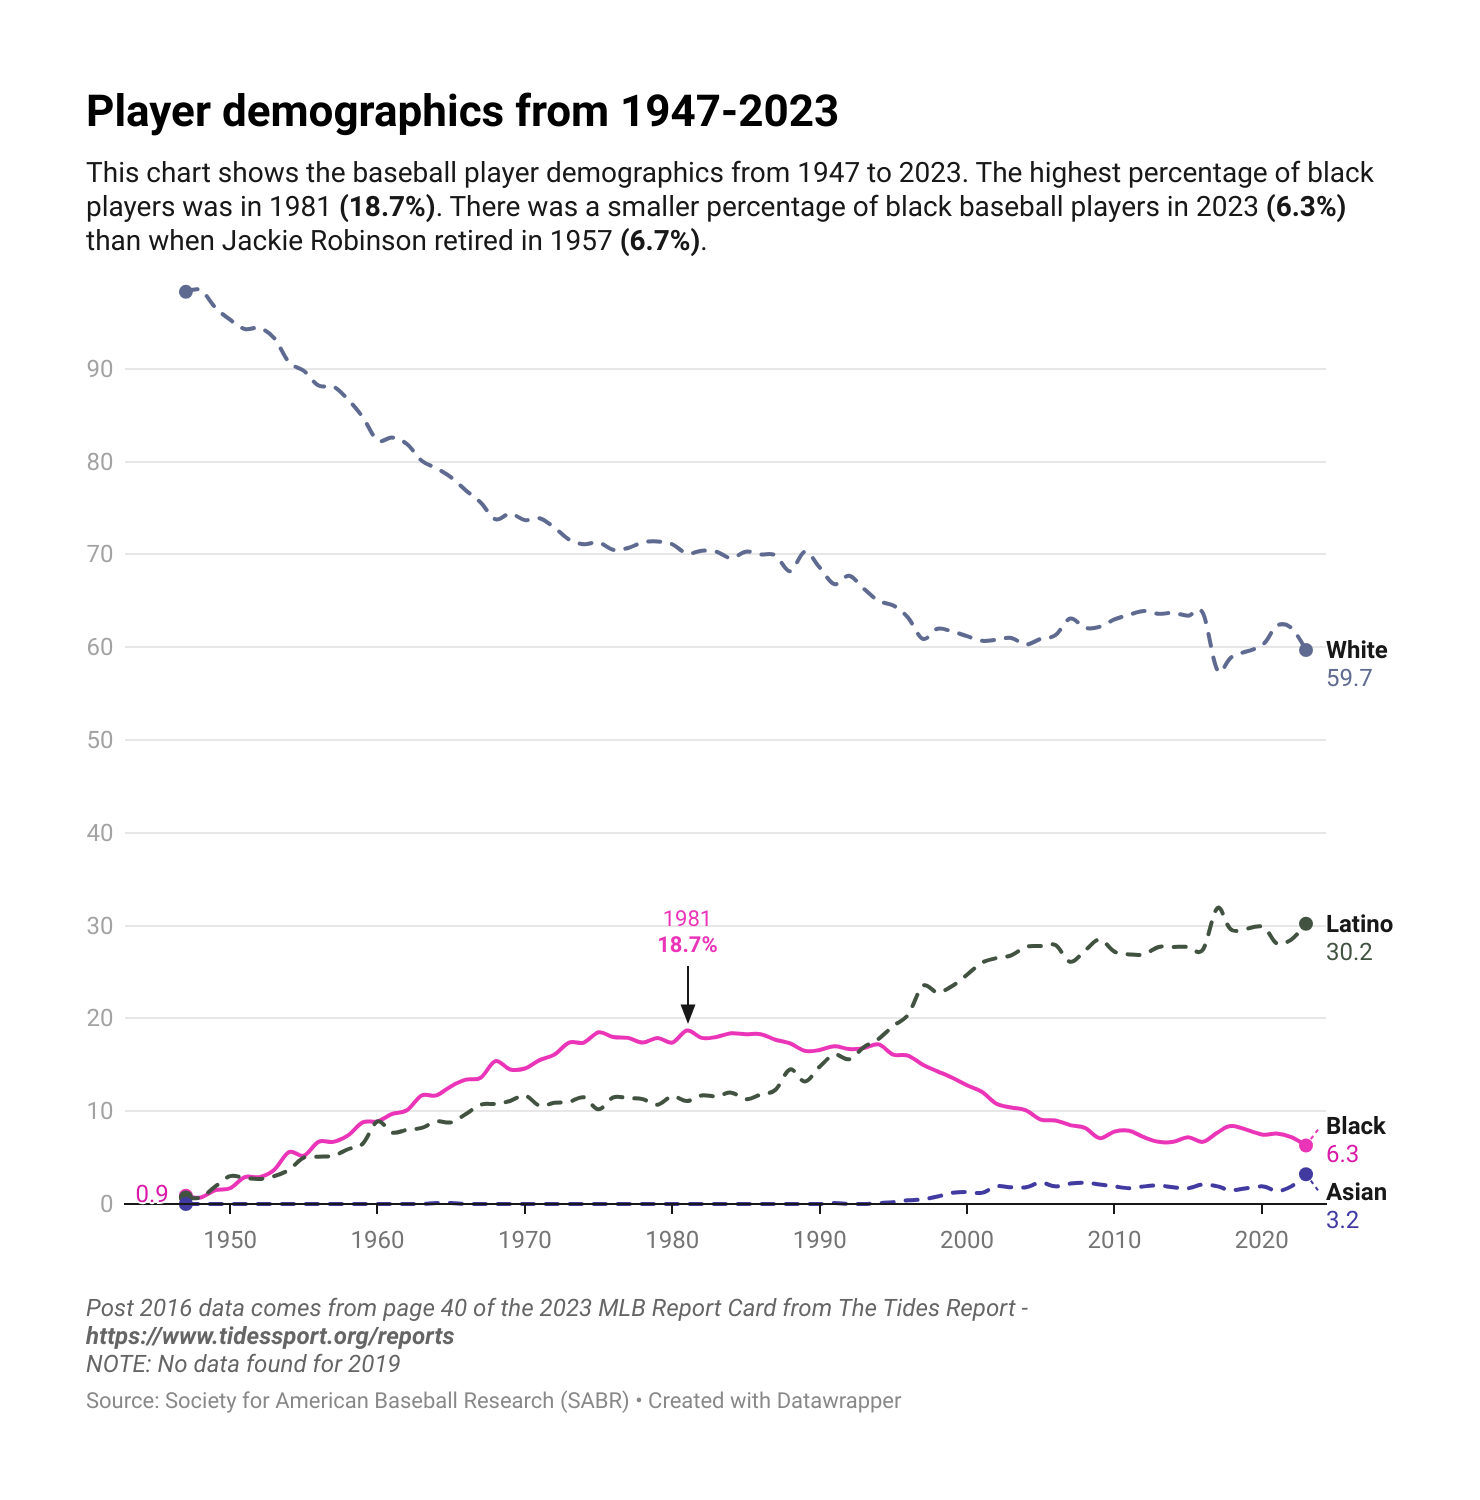
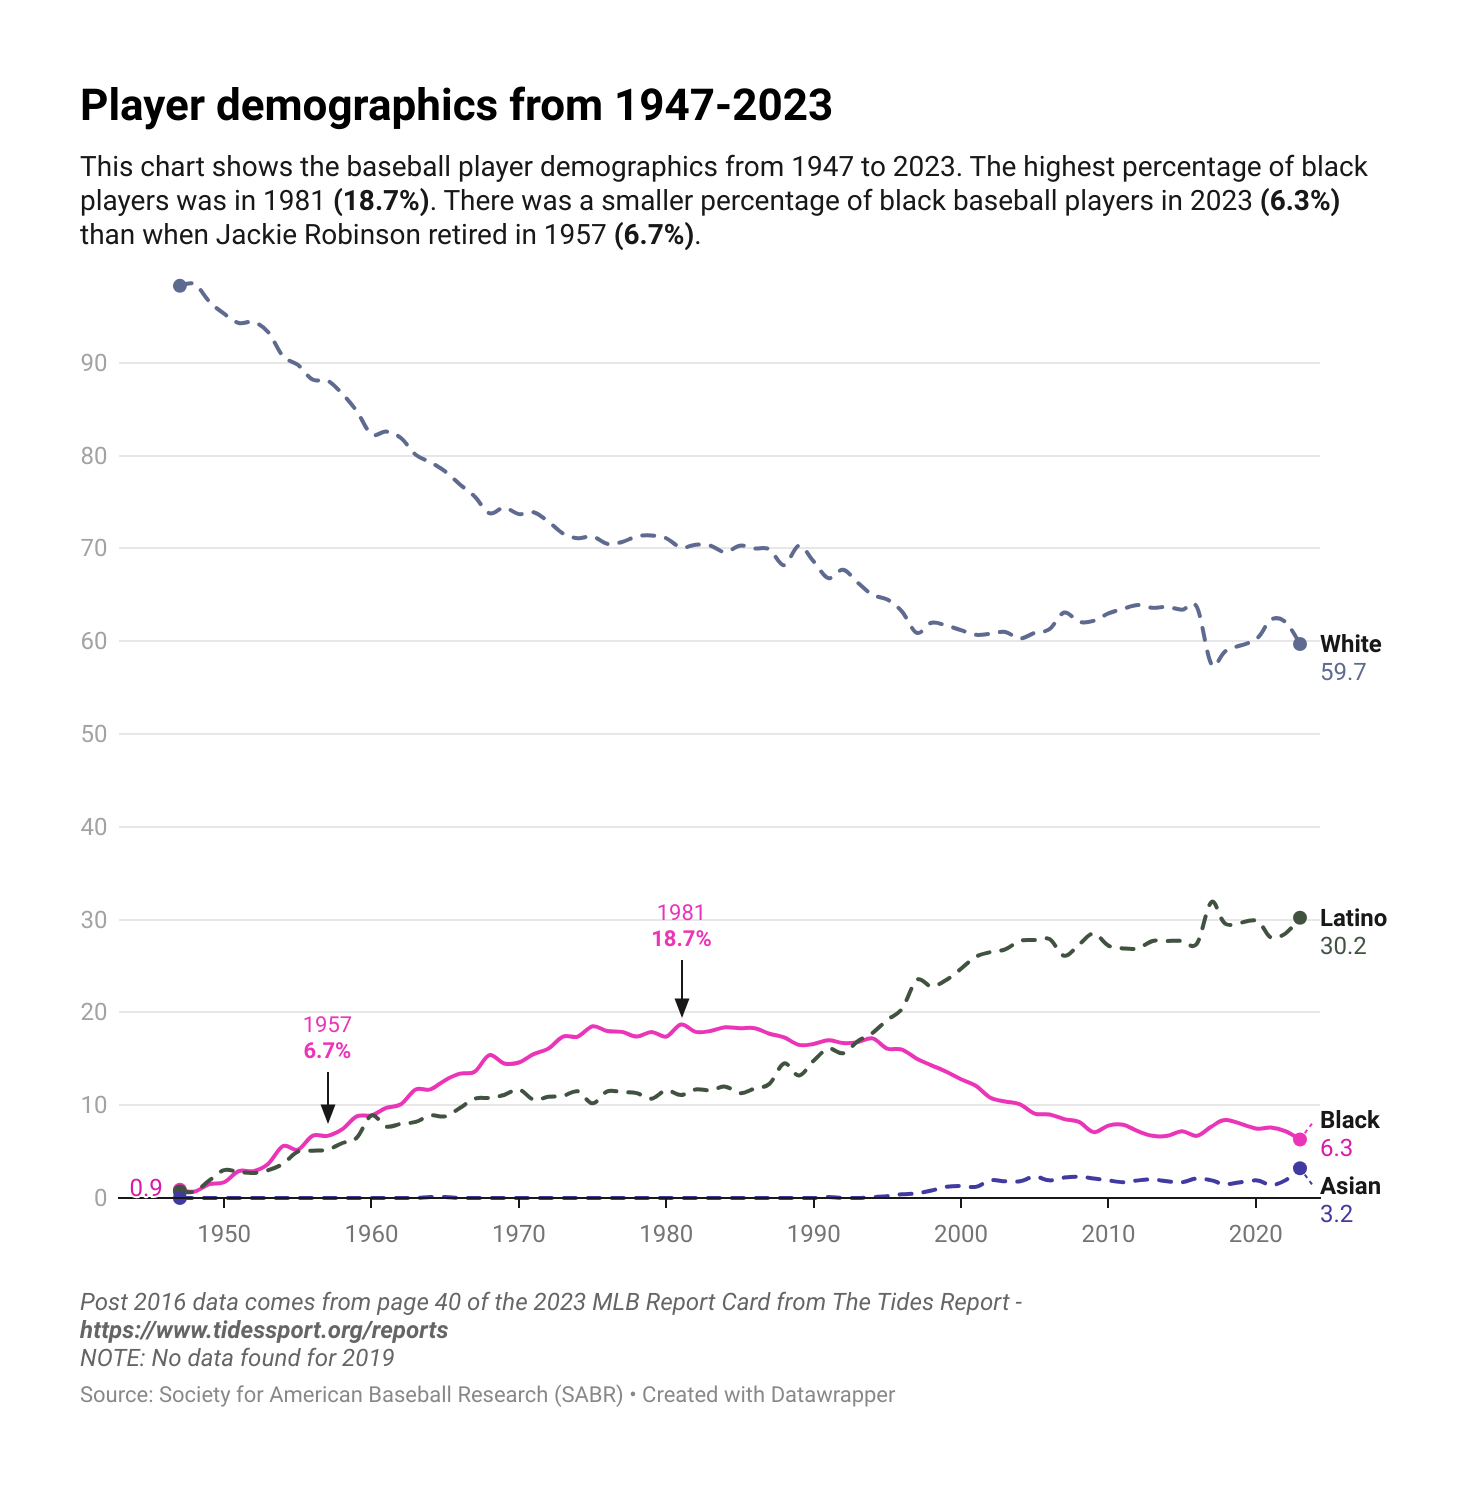
added annotation to demo line chart

diff --git a/viz-tests/player-demo.html b/viz-tests/player-demo.html
@@ -13,8 +13,8 @@
 </head>
 <body>
     <div class="line-chart">
-        <iframe title="Player demographics from 1947-2023" aria-label="Interactive line chart" id="datawrapper-chart-IzFlO" src="https://datawrapper.dwcdn.net/IzFlO/1/" scrolling="no" frameborder="0" style="width: 0; min-width: 100% !important; border: none;" height="622" data-external="1"></iframe><script type="text/javascript">!function(){"use strict";window.addEventListener("message",(function(a){if(void 0!==a.data["datawrapper-height"]){var e=document.querySelectorAll("iframe");for(var t in a.data["datawrapper-height"])for(var r,i=0;r=e[i];i++)if(r.contentWindow===a.source){var d=a.data["datawrapper-height"][t]+"px";r.style.height=d}}}))}();
-    </script>
+      <iframe title="Player demographics from 1947-2023" aria-label="Interactive line chart" id="datawrapper-chart-IzFlO" src="https://datawrapper.dwcdn.net/IzFlO/8/" scrolling="no" frameborder="0" style="width: 0; min-width: 100% !important; border: none;" height="667" data-external="1"></iframe><script type="text/javascript">!function(){"use strict";window.addEventListener("message",(function(a){if(void 0!==a.data["datawrapper-height"]){var e=document.querySelectorAll("iframe");for(var t in a.data["datawrapper-height"])for(var r,i=0;r=e[i];i++)if(r.contentWindow===a.source){var d=a.data["datawrapper-height"][t]+"px";r.style.height=d}}}))}();
+      </script>
     </div>
 </body>
 </html>

diff --git a/viz-tests/player-data-all.html b/viz-tests/player-data-all.html
@@ -86,8 +86,8 @@
     </div>
     
     <div class="line-chart">
-      <iframe title="Player demographics from 1947-2023" aria-label="Interactive line chart" id="datawrapper-chart-IzFlO" src="https://datawrapper.dwcdn.net/IzFlO/6/" scrolling="no" frameborder="0" style="width: 0; min-width: 80% !important; border: none;" height="667" data-external="1"></iframe><script type="text/javascript">!function(){"use strict";window.addEventListener("message",(function(a){if(void 0!==a.data["datawrapper-height"]){var e=document.querySelectorAll("iframe");for(var t in a.data["datawrapper-height"])for(var r,i=0;r=e[i];i++)if(r.contentWindow===a.source){var d=a.data["datawrapper-height"][t]+"px";r.style.height=d}}}))}();
-    </script>
+      <iframe title="Player demographics from 1947-2023" aria-label="Interactive line chart" id="datawrapper-chart-IzFlO" src="https://datawrapper.dwcdn.net/IzFlO/8/" scrolling="no" frameborder="0" style="width: 0; min-width: 80% !important; border: none;" height="667" data-external="1"></iframe><script type="text/javascript">!function(){"use strict";window.addEventListener("message",(function(a){if(void 0!==a.data["datawrapper-height"]){var e=document.querySelectorAll("iframe");for(var t in a.data["datawrapper-height"])for(var r,i=0;r=e[i];i++)if(r.contentWindow===a.source){var d=a.data["datawrapper-height"][t]+"px";r.style.height=d}}}))}();
+      </script>
     </div>
 
     <br/>

diff --git a/viz/index-players.html b/viz/index-players.html
@@ -82,7 +82,7 @@
       </nav>
   </div>
   <div class="line-chart">
-    <iframe title="Player demographics from 1947-2023" aria-label="Interactive line chart" id="datawrapper-chart-IzFlO" src="https://datawrapper.dwcdn.net/IzFlO/6/" scrolling="no" frameborder="0" style="width: 0; min-width: 80% !important; border: none;" height="667" data-external="1"></iframe><script type="text/javascript">!function(){"use strict";window.addEventListener("message",(function(a){if(void 0!==a.data["datawrapper-height"]){var e=document.querySelectorAll("iframe");for(var t in a.data["datawrapper-height"])for(var r,i=0;r=e[i];i++)if(r.contentWindow===a.source){var d=a.data["datawrapper-height"][t]+"px";r.style.height=d}}}))}();
+    <iframe title="Player demographics from 1947-2023" aria-label="Interactive line chart" id="datawrapper-chart-IzFlO" src="https://datawrapper.dwcdn.net/IzFlO/8/" scrolling="no" frameborder="0" style="width: 0; min-width: 80% !important; border: none;" height="667" data-external="1"></iframe><script type="text/javascript">!function(){"use strict";window.addEventListener("message",(function(a){if(void 0!==a.data["datawrapper-height"]){var e=document.querySelectorAll("iframe");for(var t in a.data["datawrapper-height"])for(var r,i=0;r=e[i];i++)if(r.contentWindow===a.source){var d=a.data["datawrapper-height"][t]+"px";r.style.height=d}}}))}();
     </script>
   </div>
 </body>
